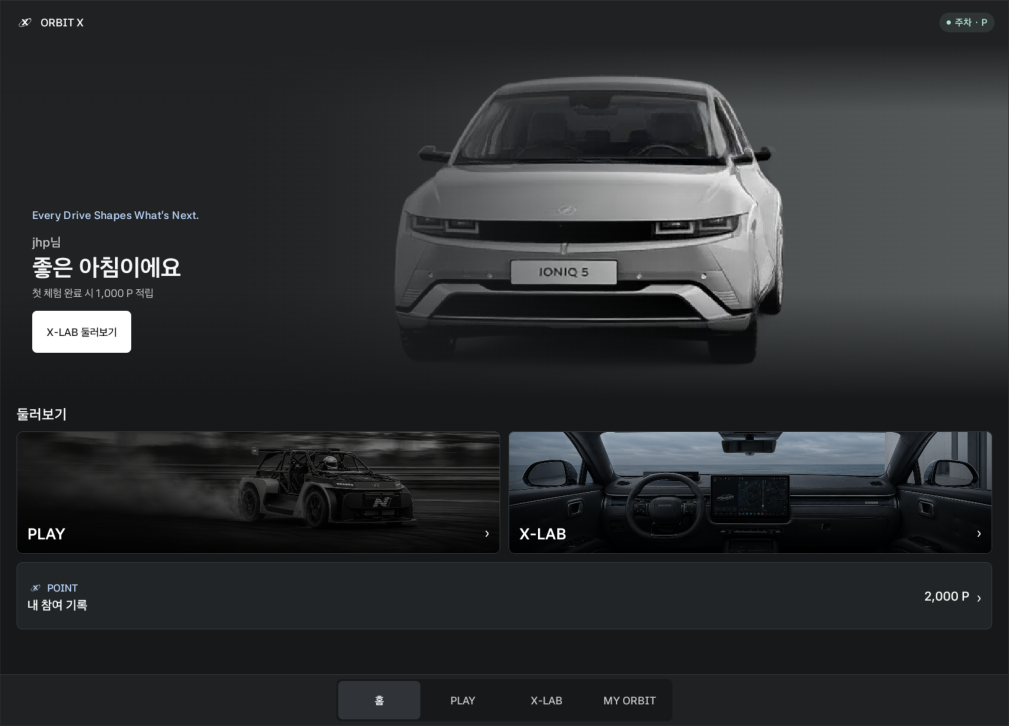
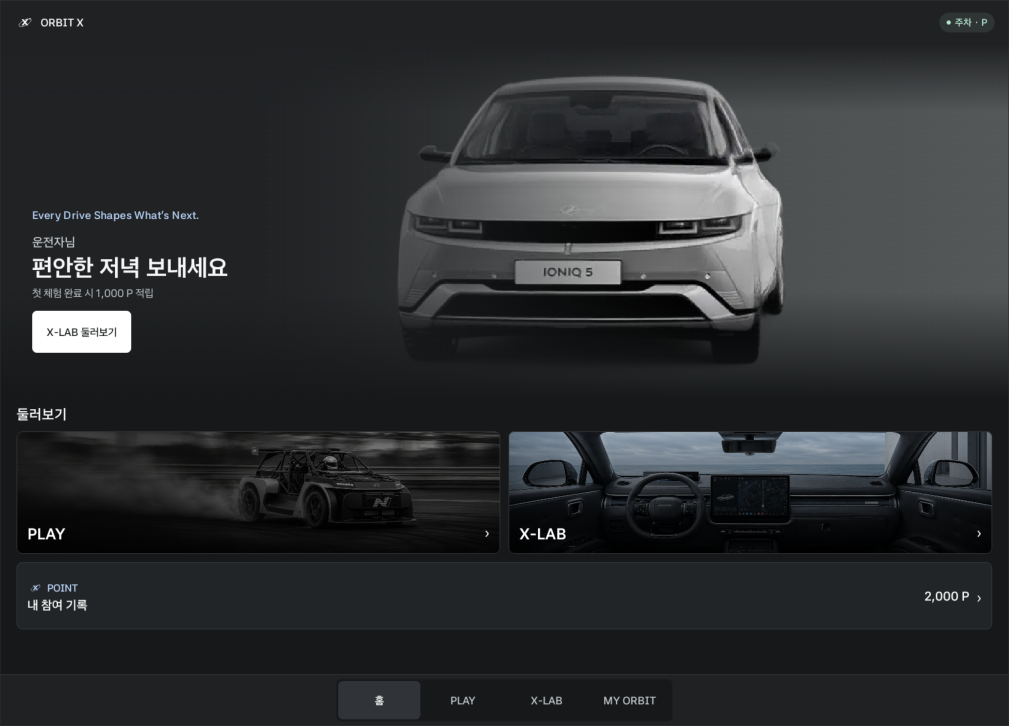
Greet with the Pleos profile name, falling back to the default profile label

diff --git a/app/src/main/java/com/example/orbitx/OrbitApp.kt b/app/src/main/java/com/example/orbitx/OrbitApp.kt
@@ -666,7 +666,8 @@ private fun VehicleHeroCopy(modifier: Modifier, availableAward: Int, displayName
         )
         Spacer(Modifier.height(10.dp))
         Text(
-            if (displayName.isBlank()) "PLEOS CONNECT" else "${displayName}님",
+            // Pleos profile name when readable, else the Pleos default profile label.
+            "${displayName.ifBlank { "운전자" }}님",
             color = Muted,
             style = MaterialTheme.typography.titleMedium,
             maxLines = 1,
@@ -2970,7 +2971,19 @@ private fun Points(data: OrbitData, showTitle: Boolean, canReset: Boolean, onRes
         Row(Modifier.fillMaxWidth(), verticalAlignment = Alignment.CenterVertically) {
             Column(Modifier.weight(1f)) {
                 Text("홈 인사말 이름", style = MaterialTheme.typography.titleMedium)
-                Text(data.displayName.ifBlank { "설정 안 함" }, color = Muted)
+                Text(
+                    when {
+                        data.displayName.isBlank() -> "운전자 (Pleos 기본 프로필)"
+                        data.usesProfileName -> "${data.displayName}  ·  Pleos 프로필"
+                        else -> data.displayName
+                    },
+                    color = Muted,
+                )
+            }
+            if (!data.usesProfileName && data.profileName.isNotBlank()) {
+                TextButton(onClick = { data.saveDisplayName("") }, modifier = Modifier.heightIn(min = 64.dp)) {
+                    Text("프로필 이름 쓰기", color = Muted)
+                }
             }
             TextButton(onClick = { editingName = true }, modifier = Modifier.heightIn(min = 64.dp)) {
                 Text(if (data.displayName.isBlank()) "이름 설정" else "이름 변경")

diff --git a/app/src/main/java/com/example/orbitx/OrbitData.kt b/app/src/main/java/com/example/orbitx/OrbitData.kt
@@ -2,6 +2,7 @@ package com.example.orbitx
 
 import android.content.Context
 import android.os.SystemClock
+import android.os.UserManager
 import androidx.compose.runtime.getValue
 import androidx.compose.runtime.mutableStateOf
 import androidx.compose.runtime.setValue
@@ -325,12 +326,17 @@ internal class OrbitData(context: Context) {
         }
     }
 
-    var displayName by mutableStateOf(prefs.getString("displayName", "").orEmpty())
-        private set
+    /** Name of the signed-in Pleos profile (the Android user), used unless the driver sets one in MY ORBIT. */
+    val profileName: String = runCatching {
+        context.getSystemService(UserManager::class.java)?.userName.orEmpty().trim()
+    }.getOrDefault("")
+    private var customName by mutableStateOf(prefs.getString("displayName", "").orEmpty())
+    val displayName: String get() = customName.ifBlank { profileName }
+    val usesProfileName: Boolean get() = customName.isBlank()
 
     fun saveDisplayName(value: String) {
-        displayName = value.trim()
-        prefs.edit().putString("displayName", displayName).apply()
+        customName = value.trim()
+        prefs.edit().putString("displayName", customName).apply()
     }
 
     var balance by mutableStateOf(prefs.getInt("balance", 0))
@@ -458,7 +464,7 @@ internal class OrbitData(context: Context) {
 
     fun resetActivityRecords() {
         prefs.edit().clear()
-            .putString("displayName", displayName)
+            .putString("displayName", customName)
             .putBoolean("automaticCabinClimate", automaticCabinClimate)
             .putBoolean("thousandPointScale", true)
             .putBoolean("flatDriveAward", true)

diff --git a/README.md b/README.md
@@ -37,7 +37,7 @@
 | **홈** | 회전하는 차량과 시간대별 인사말을 보고, 하단 탭으로 이동합니다. 라이트·다크 표시는 Pleos에서 앱에 전달하는 시스템 테마를 따릅니다. |
 | **PLAY** | **주행 효율 리그**에서 월간 추정 전비·연비와 빈 좌석 공조 낭비를 실시간으로 보고, 같은 차종의 착석 연동 공조 사용·미사용 비교(예시)를 확인합니다. **드라이브**에서는 차량 주행가능거리로 왕복 가능 거리를 보고, 순정 내비로 안내를 시작한 뒤 도착하면 이번 드라이브의 거리·사용 에너지·전비 리포트를 받습니다. 데일리·장기 미션에도 참여합니다. |
 | **X-LAB** | 사용자 제안이나 개발팀 아이디어를 정식 배포 전에 체험하고 평가하는 공간입니다. 착석 연동 공조는 빈 좌석 공조를 꺼 에너지 낭비를 줄이는 첫 실험이고, OTA 평가에서는 **실제 차량 도어를 SDK로 잠그고 풀며** 업데이트 UX를 평가합니다. 다음 실험으로는 지금 Pleos Connect에서 불편한 점(송풍구 방향 바로 조절, 주행 정보 한곳에, Gleo 음성 명령 실패 표현 수집, 화면 멈춤 바로 신고)을 보여줍니다. |
-| **MY ORBIT** | 참여 기록과 포인트를 확인하고, 포인트의 블루멤버스 전환(제휴 후 제공)을 안내합니다. 홈 인사말의 이름을 설정하거나 시연 기록을 초기화합니다. |
+| **MY ORBIT** | 참여 기록과 포인트를 확인하고, 포인트의 블루멤버스 전환(제휴 후 제공)을 안내합니다. 홈 인사말은 Pleos 프로필(Android 사용자) 이름을 기본으로 쓰고, 앱이 읽을 수 없는 환경에서는 Pleos 기본 프로필 이름인 "운전자"로 인사합니다. MY ORBIT에서 직접 이름을 바꾸거나 시연 기록을 초기화할 수 있습니다. |
 
 ### 화면 미리보기
 
